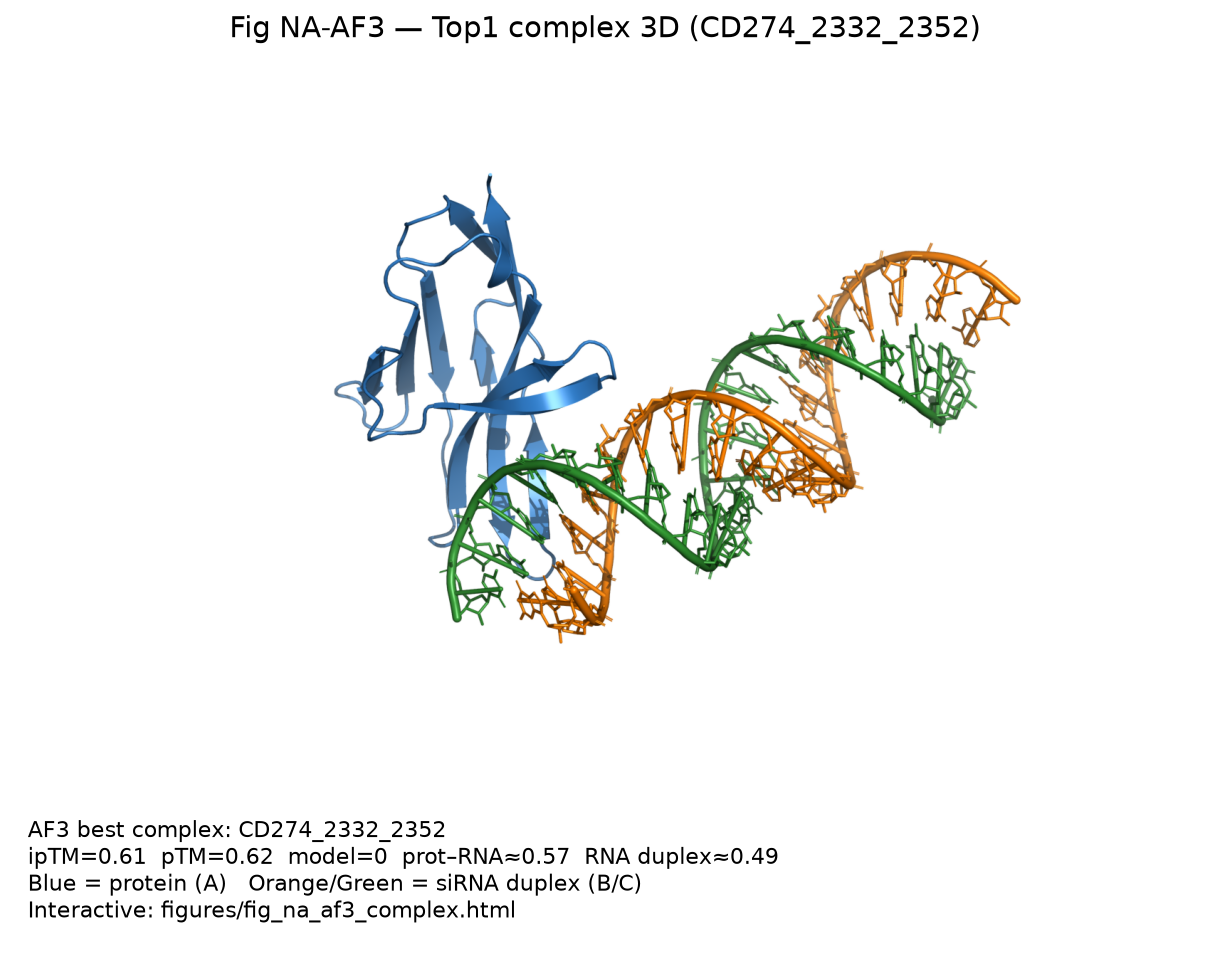
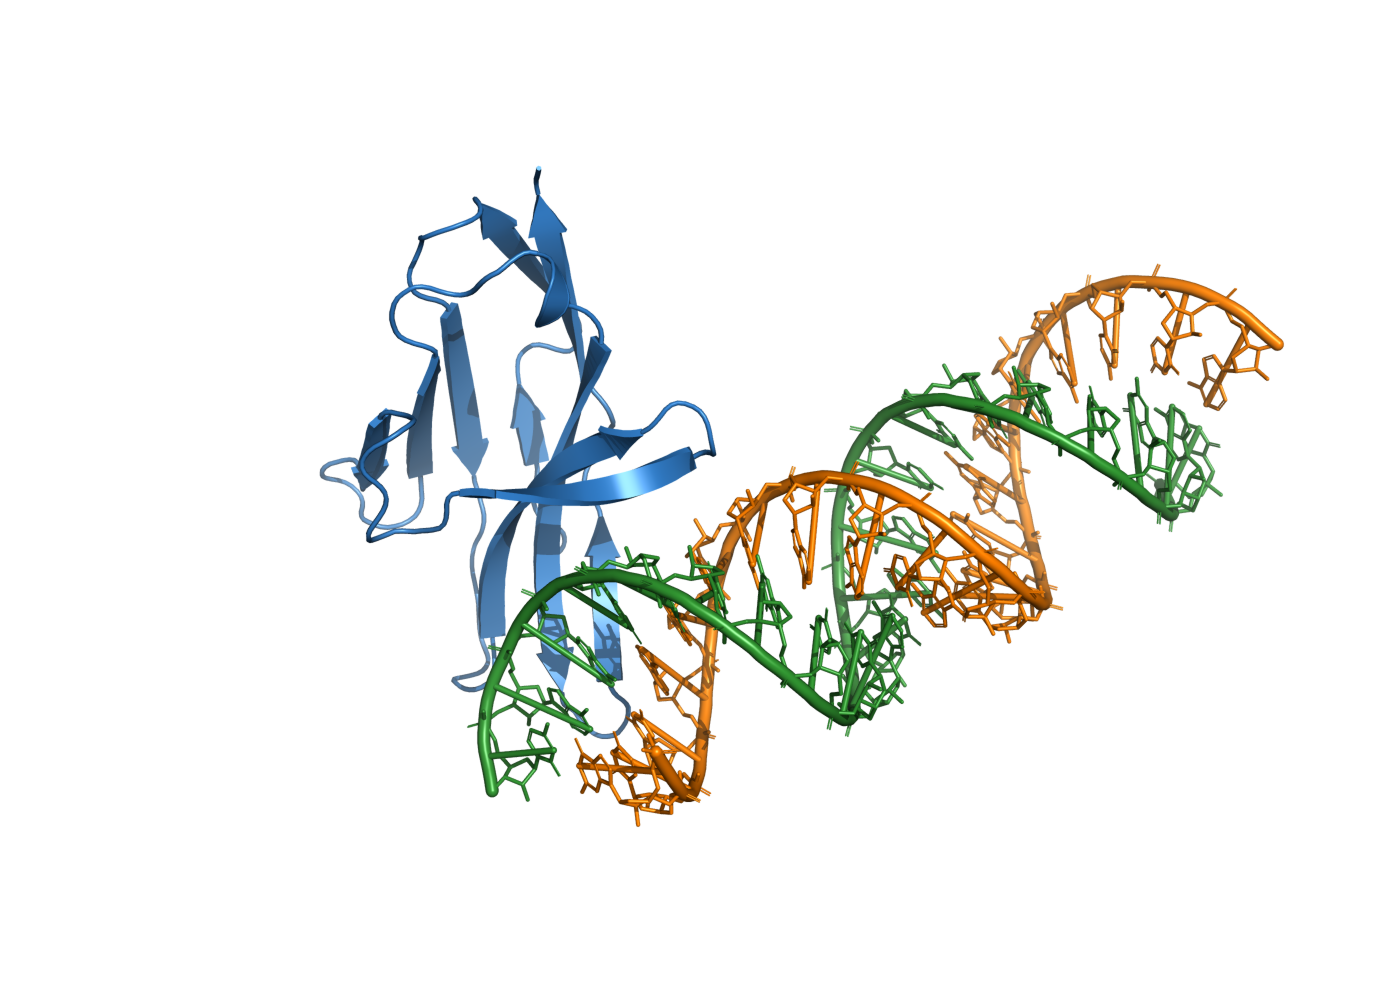
Drop caption panels from AF3 complex PNGs.
Keep structure-only PyMOL renders for PE/NA Module 4 figures used in the docs.

diff --git a/scripts/render_af3_complex_png.py b/scripts/render_af3_complex_png.py
@@ -1,7 +1,7 @@
 #!/usr/bin/env python
 """Render a static cartoon PNG from an AF3 complex CIF (PyMOL).
 
-Used by PE/NA Module 4 to replace text-only caption cards.
+Used by PE/NA Module 4. Outputs structure only (no caption panel).
 """
 from __future__ import annotations
 
@@ -13,31 +13,26 @@ def render_complex_png(
     cif_path: Path,
     out_png: Path,
     *,
-    title: str,
-    caption: str,
+    title: str = "",
+    caption: str = "",
     chain_a_color: str = "skyblue",
     chain_b_color: str = "orange",
     chain_c_color: str | None = "forest",
     width: int = 1400,
     height: int = 1000,
 ) -> Path:
+    """Render CIF to PNG. ``title`` / ``caption`` are kept for API compat but ignored."""
+    del title, caption  # structure-only output
     from pymol import cmd
-    import matplotlib
-
-    matplotlib.use("Agg")
-    import matplotlib.pyplot as plt
-    from matplotlib import image as mpimg
 
     cif_path = Path(cif_path)
     out_png = Path(out_png)
     out_png.parent.mkdir(parents=True, exist_ok=True)
-    raw = out_png.with_suffix(".raw.png")
 
     cmd.reinitialize()
     cmd.load(str(cif_path), "cpx")
     cmd.hide("everything")
     cmd.show("cartoon")
-    # Nucleic acids: thicker ribbon + light sticks for duplex visibility
     cmd.show("sticks", "cpx and (resn A+U+G+C+DA+DT+DG+DC+ADE+URA+GUA+CYT)")
     cmd.set("stick_radius", 0.15)
     cmd.color(chain_a_color, "cpx and chain A")
@@ -51,25 +46,7 @@ def render_complex_png(
     cmd.orient()
     cmd.zoom("cpx", 2)
     cmd.ray(width, height)
-    cmd.png(str(raw), dpi=150)
-
-    img = mpimg.imread(raw)
-    fig = plt.figure(figsize=(9.5, 7.2))
-    gs = fig.add_gridspec(2, 1, height_ratios=[5.8, 1.15], hspace=0.08)
-    ax = fig.add_subplot(gs[0])
-    ax.imshow(img)
-    ax.axis("off")
-    ax.set_title(title, fontsize=13, pad=8)
-
-    ax2 = fig.add_subplot(gs[1])
-    ax2.axis("off")
-    ax2.text(0.01, 0.5, caption, fontsize=10, family="DejaVu Sans", va="center")
-    fig.savefig(out_png, dpi=160, bbox_inches="tight", facecolor="white")
-    plt.close(fig)
-    try:
-        raw.unlink()
-    except OSError:
-        pass
+    cmd.png(str(out_png), dpi=150)
     return out_png
 
 
@@ -77,8 +54,8 @@ def main():
     ap = argparse.ArgumentParser()
     ap.add_argument("--cif", required=True)
     ap.add_argument("--out", required=True)
-    ap.add_argument("--title", required=True)
-    ap.add_argument("--caption", required=True)
+    ap.add_argument("--title", default="", help="Ignored (API compat)")
+    ap.add_argument("--caption", default="", help="Ignored (API compat)")
     ap.add_argument("--no-chain-c", action="store_true", help="Skip coloring chain C")
     args = ap.parse_args()
     path = render_complex_png(

diff --git a/docs/workflows/PE_MODULES.md b/docs/workflows/PE_MODULES.md
@@ -452,7 +452,7 @@ AF3 Server zip
 | `af3_pe_complexes/*_best.cif` | 各突变体最佳模型 |
 | `figures/fig_pe_af3_iptm_ranking.png` | ipTM 排名图 |
 | `figures/fig_pe_af3_complex.html` | Top1 交互 3D |
-| `figures/fig_pe_af3_complex.png` | Top1 指标摘要 |
+| `figures/fig_pe_af3_complex.png` | Top1 复合物 PyMOL cartoon 快照 |
 
 **当前运行结果（最佳模型）**：
 